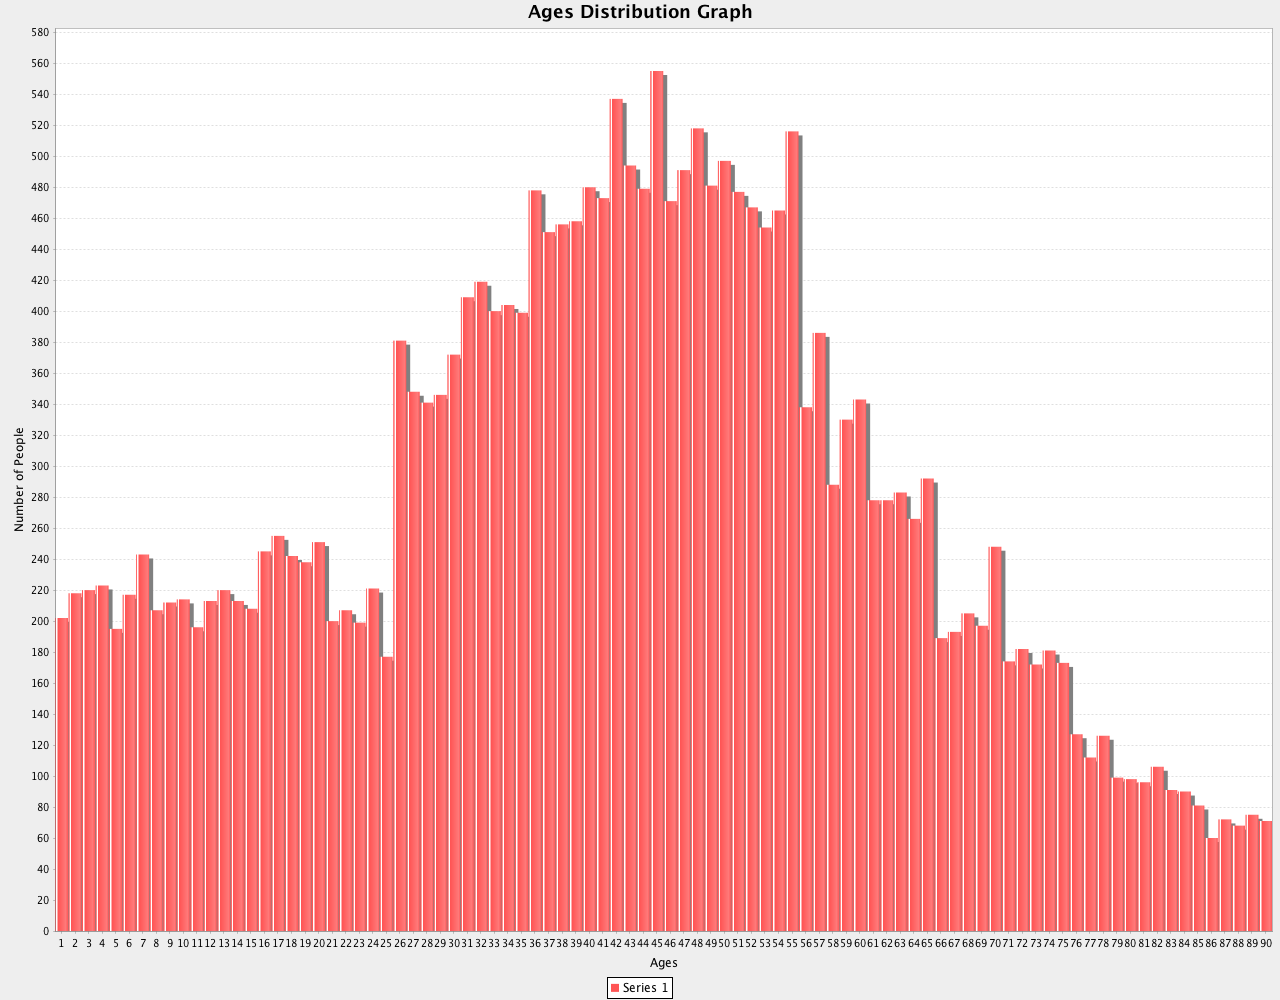
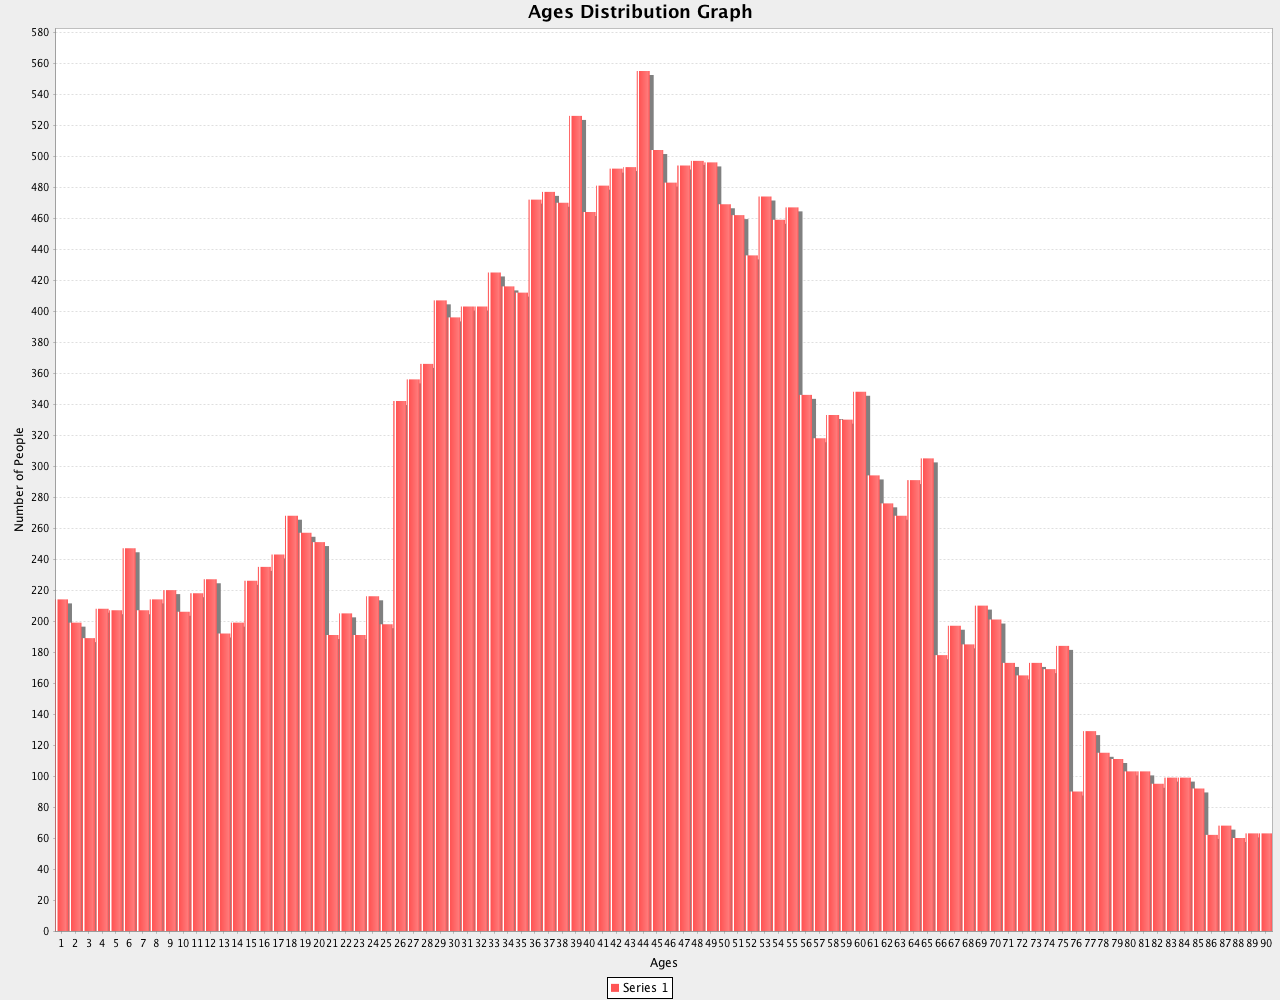
Bug fixes, Improvements
- Smoothed out bump at 10 days
- Prevented occasional crash when disease ends early

diff --git a/src/masterdiseasesimulation/SniffleForecast.java b/src/masterdiseasesimulation/SniffleForecast.java
@@ -115,6 +115,7 @@ public class SniffleForecast {
 			
 			//Make Universal Timeline Table
 			ArrayList<ArrayList<Integer>> finalTable = finalTable(simulatedData, results, numDays, methods, people, denominator);
+			finalTable.get(11).set(1, (finalTable.get(10).get(1) + finalTable.get(12).get(1)) / 2); // Smooth out bump
 			for (int i = 0; i < finalTable.size(); i++) {
 				System.out.println(i + ": " + finalTable.get(i));
 			}
@@ -123,7 +124,12 @@ public class SniffleForecast {
 			System.out.println(finalTable);
 			
 			for (int i = 0; i < totalDays; i++) {
-				finalResults[i] += ((double)finalTable.get(i).get(1)) / totalPeople;
+				try {
+					finalResults[i] += ((double)finalTable.get(i).get(1)) / totalPeople;
+				}
+				catch (IndexOutOfBoundsException e) {
+					finalResults[i] += 0;
+				}
 			}
 			
 			System.out.println(runTime + "-----------------------------------------------");
